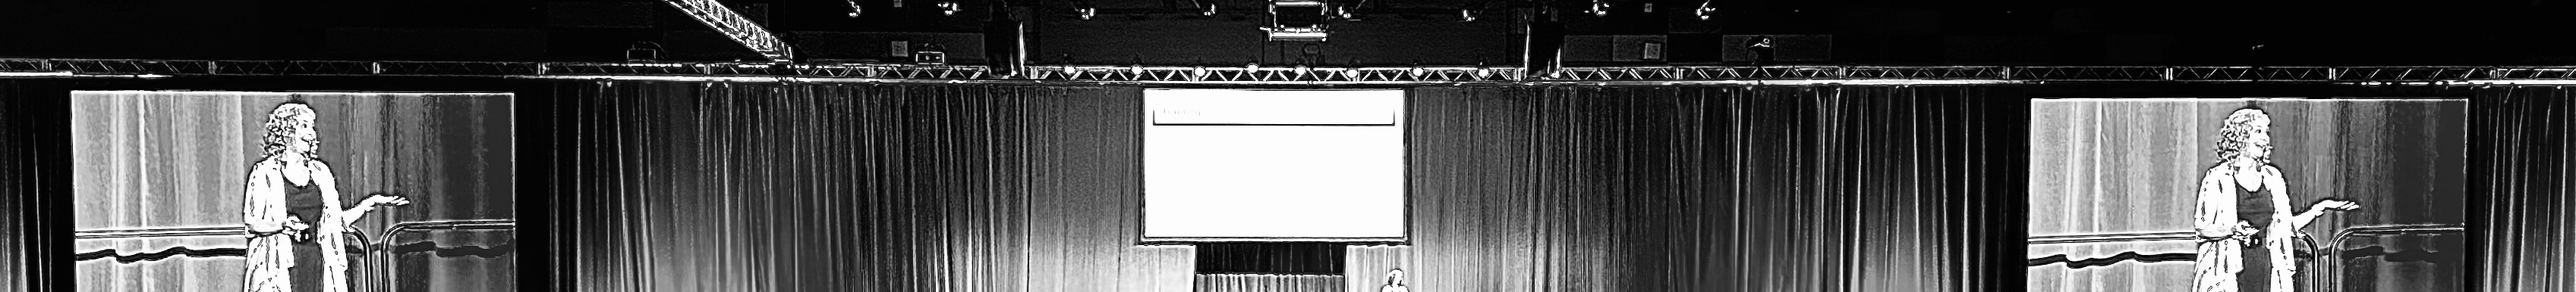
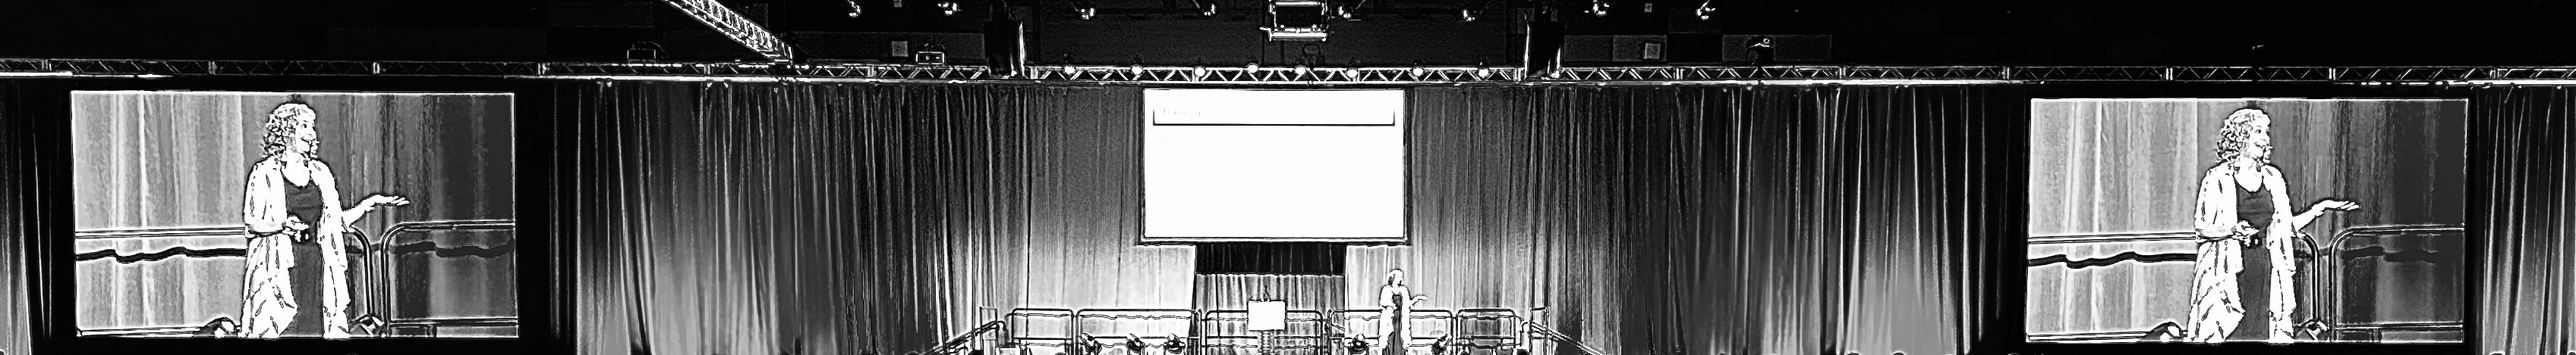
Adjust hero image crop to 85% for better balance
- Recropped hero-bg.jpg to 469px height (85% of original)
- Better balance between removing sparse rows and keeping audience
- Saved 70% version as hero-bg-70percent.jpg for reference

diff --git a/public/index.html b/public/index.html
@@ -8,7 +8,7 @@ Contact Laura</button></div><div class=meet-laura-image><img src=https://wesdott
 <span class=talk-audience aria-label="Target audience"></span></div><div class=takeaways><h4>Audience Takeaways:</h4><ul><li>Recognize how traditional interview methods can exclude those with different cognitive and communication styles</li><li>Learn how to modify questioning techniques, environments and processes to support all participants</li><li>Apply strategies that enhance reliability in both talent assessment and fact-finding</li></ul></div><a href=/lauraganthony.com/talks/equity-in-inquiry/ class=talk-link aria-label="Learn more about Equity in Inquiry">Learn More</a></div></article><article class=talk-card><div class=talk-card-header><h3 class=talk-title><a href=/lauraganthony.com/talks/different-wiring-shared-solutions/>Different Wiring, Shared Solutions</a></h3></div><div class=talk-card-content><p class=talk-subtitle>Leveraging the power of a neurodiverse workforce</p><p class=talk-summary>Conflict is inevitable, and the stress it creates can be particularly challenging for neurodivergent individuals who process emotions, interpret communication, and respond to tension in different ways. For dispute resolution professionals, like mediators and arbitrators, as well as workplace leaders, it's important to understand these differences and how traditional ADR practices can create barriers to resolution. This training offers practitioners insight on how to eliminate these barriers, implement inclusive practices that account for diverse thinking and communication styles and achieve better solutions for all parties.</p><div class=talk-meta><span class=talk-duration aria-label="Talk duration"></span>
 <span class=talk-audience aria-label="Target audience"></span></div><div class=takeaways><h4>Audience Takeaways:</h4><ul><li>Recognize how neurodivergence can affect how people experience stress and conflict</li><li>Understand how traditional approaches to dispute resolution may be ineffective or escalate the tension between parties</li><li>Learn how to adapt processes so they support all participants and their unique needs</li></ul></div><a href=/lauraganthony.com/talks/different-wiring-shared-solutions/ class=talk-link aria-label="Learn more about Different Wiring, Shared Solutions">Learn More</a></div></article><article class=talk-card><div class=talk-card-header><h3 class=talk-title><a href=/lauraganthony.com/talks/leadership-mindset-for-all-minds/>A Leadership Mindset for All Minds</a></h3></div><div class=talk-card-content><p class=talk-subtitle>Effective leadership for neurodiverse teams</p><p class=talk-summary>Leadership is evolving and one of the most transformative shifts is the recognition and leveraging of neurodiversity within teams. This session equips team leaders to foster neuroinclusion in talent acquisition and development, moving beyond accommodations to systems where all minds thrive. By understanding how we think and communicate differently, attendees will learn to how be an inclusive leader, reduce bias and build collaborative teams where neurodiversity drives innovation and growth. This isn't just a talk about inclusion—it's a practical roadmap to help leaders innovate and harness their team's full potential.</p><div class=talk-meta><span class=talk-duration aria-label="Talk duration"></span>
 <span class=talk-audience aria-label="Target audience"></span></div><div class=takeaways><h4>Audience Takeaways:</h4><ul><li>Recognize the untapped potential that is already on your team</li><li>Learn inclusive strategies for hiring, talent development and change management</li><li>Consider differences on your team as differentiators for organizational growth</li></ul></div><a href=/lauraganthony.com/talks/leadership-mindset-for-all-minds/ class=talk-link aria-label="Learn more about A Leadership Mindset for All Minds">Learn More</a></div></article><article class=talk-card><div class=talk-card-header><h3 class=talk-title><a href=/lauraganthony.com/talks/great-minds-dont-think-alike/>Great Minds Don't Think Alike</a></h3></div><div class=talk-card-content><p class=talk-subtitle>Leveraging the Power of a Neurodiverse workforce</p><p class=talk-summary>As AI and automation shift talent needs, skills like creativity, innovation and complex problem solving are becoming more critical. And these skills are exactly where neurodivergent talent excel. With up to 20% of the workforce identifying as neurodivergent, smart organizations are moving beyond inclusion to harnessing these cognitive differences as competitive advantages. This session equips leaders with practical tools to recognize, develop and leverage the unique strengths of their neurodiverse talent. Because embracing neurodiversity isn't just the right thing to do—it's a powerful differentiator in an AI-dominated future.</p><div class=talk-meta><span class=talk-duration aria-label="Talk duration"></span>
-<span class=talk-audience aria-label="Target audience"></span></div><div class=takeaways><h4>Audience Takeaways:</h4><ul><li>Learn what neurodivergence means and its impact in the workforce</li><li>Discover how different ways of thinking and communicating can create a strategic advantage</li><li>Recognize and remove barriers that limit the contributions of neurodivergent talent</li></ul></div><a href=/lauraganthony.com/talks/great-minds-dont-think-alike/ class=talk-link aria-label="Learn more about Great Minds Don't Think Alike">Learn More</a></div></article></div></div></section><section class="cta-banner section" aria-labelledby=cta-banner-title><div class=container><div class=cta-banner-content><h2 id=cta-banner-title>Ready to Harness Neurodiversity as Your Competitive Advantage?</h2><p class=cta-banner-subtitle>Laura transforms how you see, support, and succeed with different minds.</p><a href=#contact class="cta-button cta-button--large">Let's chat.</a></div></div></section><section class="customer-quotes section" aria-labelledby=quotes-title><div class=container><h2 id=quotes-title>What People Are Saying</h2><div class=quotes-grid role=region aria-label="Customer testimonials"><div class=quote-container><blockquote class=quote-bubble><div class=quote-content><p class=quote-text>"Laura was a standout guest on my podcast. Her insights and storytelling were thought-provoking and relatable and her ability to discuss sensitive topics with humor and warmth made for a wonderful conversation."</p></div></blockquote><footer class=quote-attribution><cite class=quote-author>Kristin Messegee</cite> - Host, Life Uninhibited Podcast</footer></div><div class=quote-container><blockquote class=quote-bubble><div class=quote-content><p class=quote-text>"As a repeat Symposium speaker, Laura has been truly outstanding. Her intelligence and interpersonal skills enable her to explain sensitive and complex issues in a practical way with the utmost relatability."</p></div></blockquote><footer class=quote-attribution><cite class=quote-author>Dr. Perry Zirkel</cite> - Symposium Chair and Professor of Law and Education, Lehigh University</footer></div><div class=quote-container><blockquote class=quote-bubble><div class=quote-content><p class=quote-text>"Laura is a fantastic speaker. Her presentation was both thoughtful and engaging, offering valuable insights that will undoubtedly benefit our team in both their personal and professional roles."</p></div></blockquote><footer class=quote-attribution><cite class=quote-author>Chandra Cook</cite> - Director and Senior Policy Advisor EEO and Civil Rights, United States Department of Defense</footer></div><div class=quote-container><blockquote class=quote-bubble><div class=quote-content><p class=quote-text>"Laura's training was crisp, insightful and wonderfully adapted to the nuances of our process. Everyone I've communicated with was greatly impressed and agreed that it was an amazingly helpful session."</p></div></blockquote><footer class=quote-attribution><cite class=quote-author>David Baum</cite> - Employee Relations Parner, Google People Operations</footer></div><div class=quote-container><blockquote class=quote-bubble><div class=quote-content><p class=quote-text>"Laura gave a dynamic and important talk that applies not only to investigation techniques, but many other forms of communication in the workplace."</p></div></blockquote><footer class=quote-attribution><cite class=quote-author>Rosalie Wolkowicz</cite> - Senior Advisor, Promotion of Civility and Prevention of Harassment, CIUSSS West Central Montreal</footer></div><div class=quote-container><blockquote class=quote-bubble><div class=quote-content><p class=quote-text>"Laura is one of those rare speakers who can both captivate and challenge a room. Her message comes to life through her authenticity and warmth, drawing you in for a conversation that feels tailored just for you."</p></div></blockquote><footer class=quote-attribution><cite class=quote-author>Collins Saint</cite> - Director of Young Lawyer's Division, American Bar Association</footer></div></div></div></section><div id=contactModal class=modal role=dialog aria-labelledby=modalTitle aria-hidden=true><div class=modal-overlay role=presentation></div><div class=modal-content><div class=modal-header><h2 id=modalTitle>Contact Laura</h2><button class=modal-close aria-label="Close modal">&#215;</button></div><div class=modal-body><div id=mc_embed_signup><form action="https://incompliance.us17.list-manage.com/subscribe/post?u=2ab78ce09a13847b591fe7b16&amp;id=395729ec5c&amp;f_id=00fe55e0f0" method=post id=mc-embedded-subscribe-form name=mc-embedded-subscribe-form class=validate target=_blank><div id=mc_embed_signup_scroll><div class=indicates-required><span class=asterisk>*</span> indicates required</div><div class=mc-field-group><label for=mce-EMAIL>Email Address <span class=asterisk>*</span></label>
+<span class=talk-audience aria-label="Target audience"></span></div><div class=takeaways><h4>Audience Takeaways:</h4><ul><li>Learn what neurodivergence means and its impact in the workforce</li><li>Discover how different ways of thinking and communicating can create a strategic advantage</li><li>Recognize and remove barriers that limit the contributions of neurodivergent talent</li></ul></div><a href=/lauraganthony.com/talks/great-minds-dont-think-alike/ class=talk-link aria-label="Learn more about Great Minds Don't Think Alike">Learn More</a></div></article></div></div></section><section class="cta-banner section" aria-labelledby=cta-banner-title><div class=container><div class=cta-banner-content><h2 id=cta-banner-title>Ready to Harness Neurodiversity as Your Competitive Advantage?</h2><p class=cta-banner-subtitle>Laura transforms how you see, support, and succeed with different minds.</p><a href=#contact class="cta-button cta-button--large">Let's chat.</a></div></div></section><section class="customer-quotes section" aria-labelledby=quotes-title><div class=container><h2 id=quotes-title>What People Are Saying</h2><div class=quotes-grid role=region aria-label="Customer testimonials"><div class=quote-container><blockquote class=quote-bubble><div class=quote-content><p class=quote-text>"Laura is one of those rare speakers who can both captivate and challenge a room. Her message comes to life through her authenticity and warmth, drawing you in for a conversation that feels tailored just for you."</p></div></blockquote><footer class=quote-attribution><cite class=quote-author>Collins Saint</cite> - Director of Young Lawyer's Division, American Bar Association</footer></div><div class=quote-container><blockquote class=quote-bubble><div class=quote-content><p class=quote-text>"As a repeat Symposium speaker, Laura has been truly outstanding. Her intelligence and interpersonal skills enable her to explain sensitive and complex issues in a practical way with the utmost relatability."</p></div></blockquote><footer class=quote-attribution><cite class=quote-author>Dr. Perry Zirkel</cite> - Symposium Chair and Professor of Law and Education, Lehigh University</footer></div><div class=quote-container><blockquote class=quote-bubble><div class=quote-content><p class=quote-text>"Laura's training was crisp, insightful and wonderfully adapted to the nuances of our process. Everyone I've communicated with was greatly impressed and agreed that it was an amazingly helpful session."</p></div></blockquote><footer class=quote-attribution><cite class=quote-author>David Baum</cite> - Employee Relations Parner, Google People Operations</footer></div><div class=quote-container><blockquote class=quote-bubble><div class=quote-content><p class=quote-text>"Laura is a fantastic speaker. Her presentation was both thoughtful and engaging, offering valuable insights that will undoubtedly benefit our team in both their personal and professional roles."</p></div></blockquote><footer class=quote-attribution><cite class=quote-author>Chandra Cook</cite> - Director and Senior Policy Advisor EEO and Civil Rights, United States Department of Defense</footer></div><div class=quote-container><blockquote class=quote-bubble><div class=quote-content><p class=quote-text>"Laura was a standout guest on my podcast. Her insights and storytelling were thought-provoking and relatable and her ability to discuss sensitive topics with humor and warmth made for a wonderful conversation."</p></div></blockquote><footer class=quote-attribution><cite class=quote-author>Kristin Messegee</cite> - Host, Life Uninhibited Podcast</footer></div><div class=quote-container><blockquote class=quote-bubble><div class=quote-content><p class=quote-text>"Laura gave a dynamic and important talk that applies not only to investigation techniques, but many other forms of communication in the workplace."</p></div></blockquote><footer class=quote-attribution><cite class=quote-author>Rosalie Wolkowicz</cite> - Senior Advisor, Promotion of Civility and Prevention of Harassment, CIUSSS West Central Montreal</footer></div></div></div></section><div id=contactModal class=modal role=dialog aria-labelledby=modalTitle aria-hidden=true><div class=modal-overlay role=presentation></div><div class=modal-content><div class=modal-header><h2 id=modalTitle>Contact Laura</h2><button class=modal-close aria-label="Close modal">&#215;</button></div><div class=modal-body><div id=mc_embed_signup><form action="https://incompliance.us17.list-manage.com/subscribe/post?u=2ab78ce09a13847b591fe7b16&amp;id=395729ec5c&amp;f_id=00fe55e0f0" method=post id=mc-embedded-subscribe-form name=mc-embedded-subscribe-form class=validate target=_blank><div id=mc_embed_signup_scroll><div class=indicates-required><span class=asterisk>*</span> indicates required</div><div class=mc-field-group><label for=mce-EMAIL>Email Address <span class=asterisk>*</span></label>
 <input type=email name=EMAIL class="required email" id=mce-EMAIL required></div><div class=mc-field-group><label for=mce-FNAME>First Name <span class=asterisk>*</span></label>
 <input type=text name=FNAME class="required text" id=mce-FNAME required></div><div class=mc-field-group><label for=mce-LNAME>Last Name <span class=asterisk>*</span></label>
 <input type=text name=LNAME class="required text" id=mce-LNAME required></div><div class=mc-field-group><label for=mce-MMERGE8>Job Role</label>
